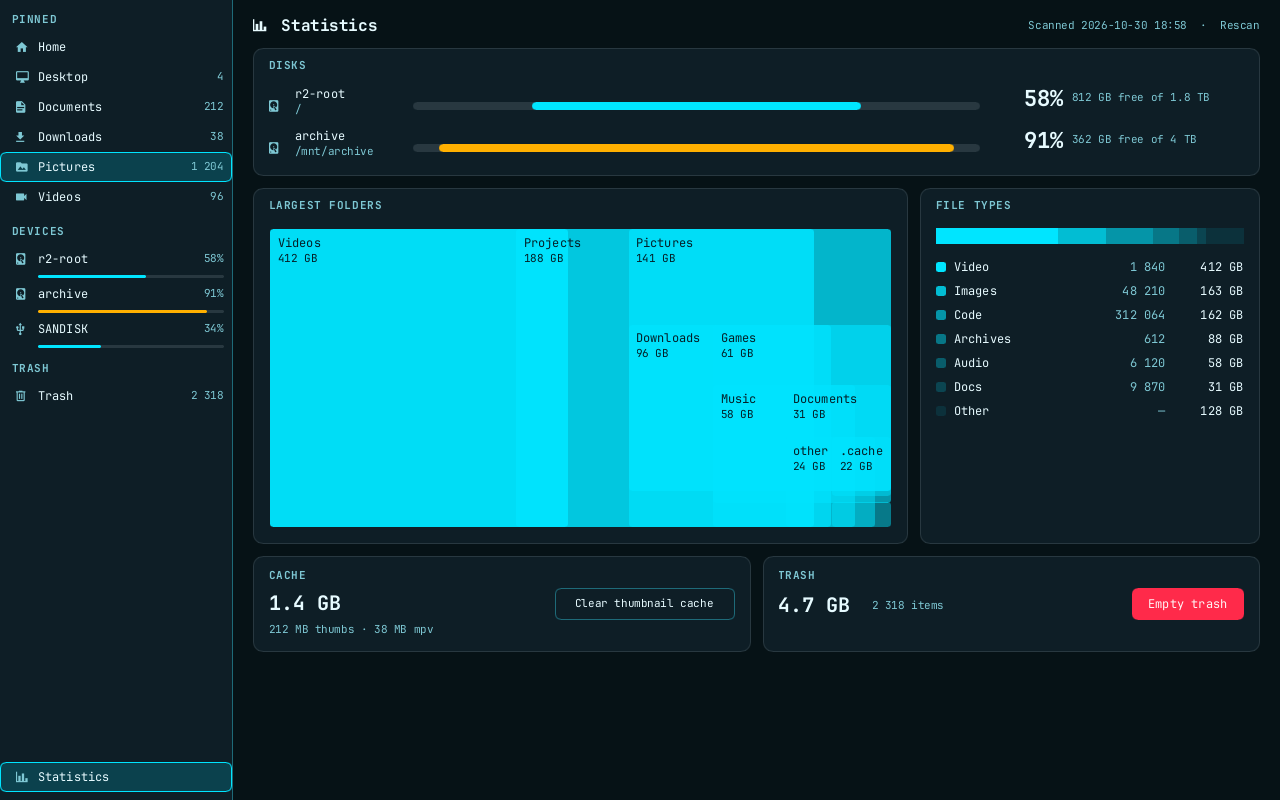
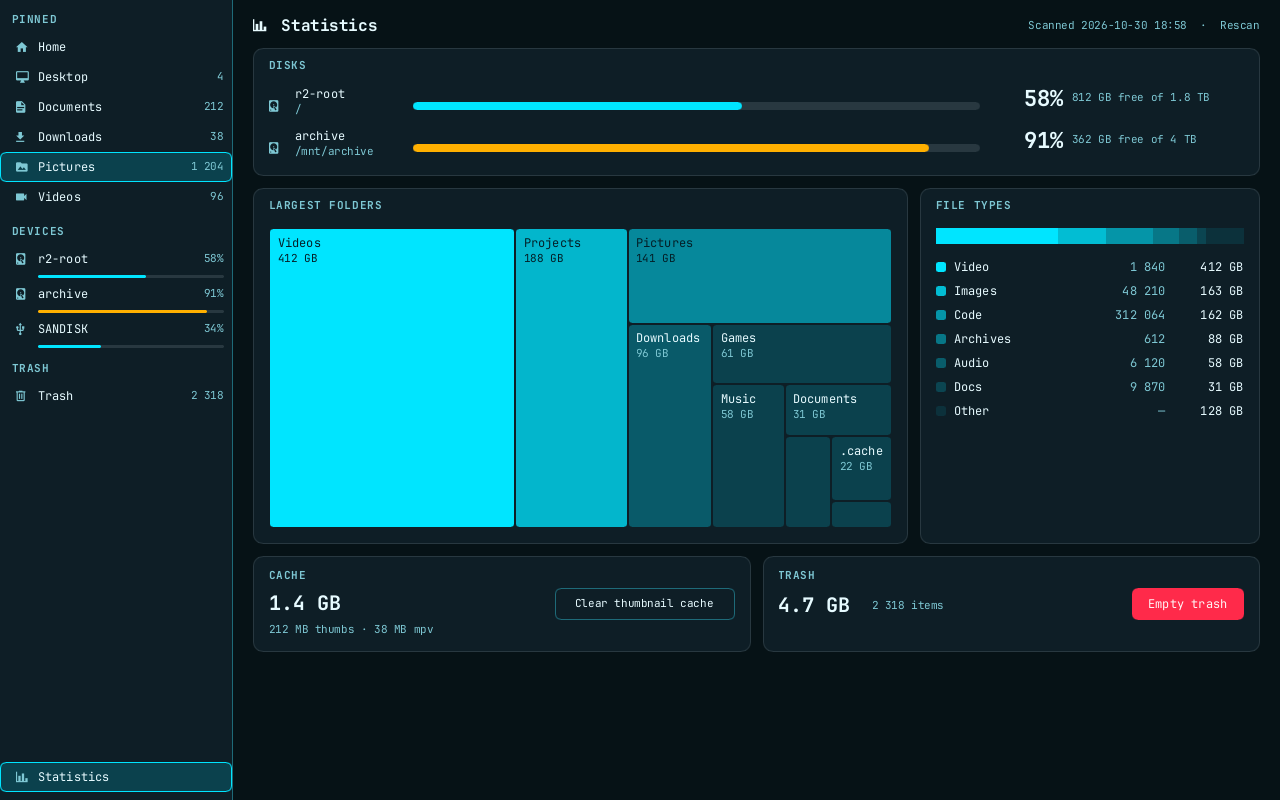
fix(stats): separate treemap tiles and left-align disk fills
Tiles keep a 2px surface gutter. Videos is full accent and each
deeper row is darker. Disk fills start at the left of the track.

diff --git a/src/stats.rs b/src/stats.rs
@@ -33,6 +33,9 @@ pub struct Rect {
     pub h: f32,
     pub name: String,
     pub bytes: u64,
+    /// Squarify recursion depth. Deeper rows sit inside the remainder of a
+    /// parent row and are drawn darker than that parent.
+    pub depth: u32,
 }
 
 /// Squarified treemap of `weights` into a `width` by `height` box.
@@ -49,11 +52,19 @@ pub fn squarify(weights: &[(String, u64)], width: f32, height: f32) -> Vec<Rect>
     items.sort_by_key(|item| item.1.to_bits());
     items.reverse();
     let mut out = Vec::new();
-    layout(&items, 0.0, 0.0, width, height, &mut out);
+    layout(&items, 0.0, 0.0, width, height, 0, &mut out);
     out
 }
 
-fn layout(items: &[(String, f32)], x: f32, y: f32, w: f32, h: f32, out: &mut Vec<Rect>) {
+fn layout(
+    items: &[(String, f32)],
+    x: f32,
+    y: f32,
+    w: f32,
+    h: f32,
+    depth: u32,
+    out: &mut Vec<Rect>,
+) {
     if items.is_empty() || w <= 0.0 || h <= 0.0 {
         return;
     }
@@ -65,6 +76,7 @@ fn layout(items: &[(String, f32)], x: f32, y: f32, w: f32, h: f32, out: &mut Vec
             h,
             name: items[0].0.clone(),
             bytes: items[0].1 as u64,
+            depth,
         });
         return;
     }
@@ -94,22 +106,26 @@ fn layout(items: &[(String, f32)], x: f32, y: f32, w: f32, h: f32, out: &mut Vec
             area / thickness
         };
         if vertical {
-            out.push(Rect {
-                x,
-                y: y + cursor,
-                w,
-                h: length,
-                name: name.clone(),
-                bytes: *area as u64,
-            });
-        } else {
+            // Horizontal strip along the top. `thickness` is its height.
             out.push(Rect {
                 x: x + cursor,
                 y,
                 w: length,
-                h,
+                h: thickness,
                 name: name.clone(),
                 bytes: *area as u64,
+                depth,
+            });
+        } else {
+            // Vertical strip along the left. `thickness` is its width.
+            out.push(Rect {
+                x,
+                y: y + cursor,
+                w: thickness,
+                h: length,
+                name: name.clone(),
+                bytes: *area as u64,
+                depth,
             });
         }
         cursor += length;
@@ -121,6 +137,7 @@ fn layout(items: &[(String, f32)], x: f32, y: f32, w: f32, h: f32, out: &mut Vec
             y + thickness,
             w,
             h - thickness,
+            depth + 1,
             out,
         );
     } else {
@@ -130,6 +147,7 @@ fn layout(items: &[(String, f32)], x: f32, y: f32, w: f32, h: f32, out: &mut Vec
             y,
             w - thickness,
             h,
+            depth + 1,
             out,
         );
     }
@@ -225,6 +243,14 @@ mod tests {
         assert!((area - 6000.0).abs() < 400.0, "{area}");
         assert_eq!(cells[0].name, "videos");
         assert!(cells.iter().all(|c| c.w > 0.0 && c.h > 0.0));
+        for (i, a) in cells.iter().enumerate() {
+            for b in cells.iter().skip(i + 1) {
+                let ox = (a.x + a.w).min(b.x + b.w) - a.x.max(b.x);
+                let oy = (a.y + a.h).min(b.y + b.h) - a.y.max(b.y);
+                assert!(ox < 0.5 || oy < 0.5, "{} overlaps {}", a.name, b.name);
+            }
+        }
+        assert!(cells.iter().any(|c| c.depth > cells[0].depth));
     }
 
     #[test]

diff --git a/src/shots.rs b/src/shots.rs
@@ -266,29 +266,30 @@ fn stats_cells(drilled: bool) -> Vec<MapCell> {
     };
     let mut ranked = weights.clone();
     ranked.sort_by_key(|(_, bytes)| std::cmp::Reverse(*bytes));
-    let steps = ranked.len().saturating_sub(1).max(1) as f32;
-    let shade: std::collections::HashMap<String, f32> = ranked
+    let rank_of: std::collections::HashMap<String, usize> = ranked
         .iter()
         .enumerate()
-        .map(|(index, (name, _))| {
-            let t = index as f32 / steps;
-            // Bright on the large cells, then a tight band so the small
-            // tiles do not step through a long run of faint alphas.
-            let shade = 0.46 + 0.50 * (1.0 - t).powi(2);
-            (name.clone(), shade)
-        })
+        .map(|(index, (name, _))| (name.clone(), index))
         .collect();
     let labels: std::collections::HashMap<_, _> = weights.iter().cloned().collect();
+    // 1px off each shared edge is a 2px surface gutter.
+    const GUTTER: f32 = 1.0;
     crate::stats::squarify(&weights, 623.0, 300.0)
         .into_iter()
-        .map(|rect| MapCell {
-            x: rect.x,
-            y: rect.y,
-            w: rect.w,
-            h: rect.h,
-            name: rect.name.clone().into(),
-            detail: format!("{} GB", labels[&rect.name]).into(),
-            shade: shade[&rect.name],
+        .map(|rect| {
+            let rank = rank_of[&rect.name] as f32;
+            // Largest cell is full accent. Each lower rank steps down, and a
+            // deeper squarify row is clearly darker than the row above it.
+            let shade = (1.0 - rank * 0.08 - rect.depth as f32 * 0.15).clamp(0.18, 1.0);
+            MapCell {
+                x: rect.x + GUTTER,
+                y: rect.y + GUTTER,
+                w: (rect.w - GUTTER * 2.0).max(1.0),
+                h: (rect.h - GUTTER * 2.0).max(1.0),
+                name: rect.name.clone().into(),
+                detail: format!("{} GB", labels[&rect.name]).into(),
+                shade,
+            }
         })
         .collect()
 }
@@ -804,5 +805,35 @@ mod tests {
         ] {
             assert!(known(name), "{name}");
         }
+    }
+
+    #[test]
+    fn treemap_tiles_keep_a_surface_gutter() {
+        let cells = stats_cells(false);
+        let videos = cells.iter().find(|c| c.name == "Videos").unwrap();
+        assert!((videos.shade - 1.0).abs() < 0.001, "{}", videos.shade);
+        let mut gaps = Vec::new();
+        for a in &cells {
+            for b in &cells {
+                if a.name == b.name {
+                    continue;
+                }
+                let ax2 = a.x + a.w;
+                let ay2 = a.y + a.h;
+                let bx2 = b.x + b.w;
+                let by2 = b.y + b.h;
+                let overlap_y = a.y < by2 - 1.0 && b.y < ay2 - 1.0;
+                let overlap_x = a.x < bx2 - 1.0 && b.x < ax2 - 1.0;
+                if overlap_y && b.x >= ax2 - 0.5 {
+                    gaps.push(b.x - ax2);
+                }
+                if overlap_x && b.y >= ay2 - 0.5 {
+                    gaps.push(b.y - ay2);
+                }
+            }
+        }
+        let min = gaps.iter().copied().fold(f32::MAX, f32::min);
+        assert!((min - 2.0).abs() < 0.2, "gutter should be 2px, min {min}");
+        assert!(cells.iter().any(|c| c.shade < videos.shade - 0.1));
     }
 }
